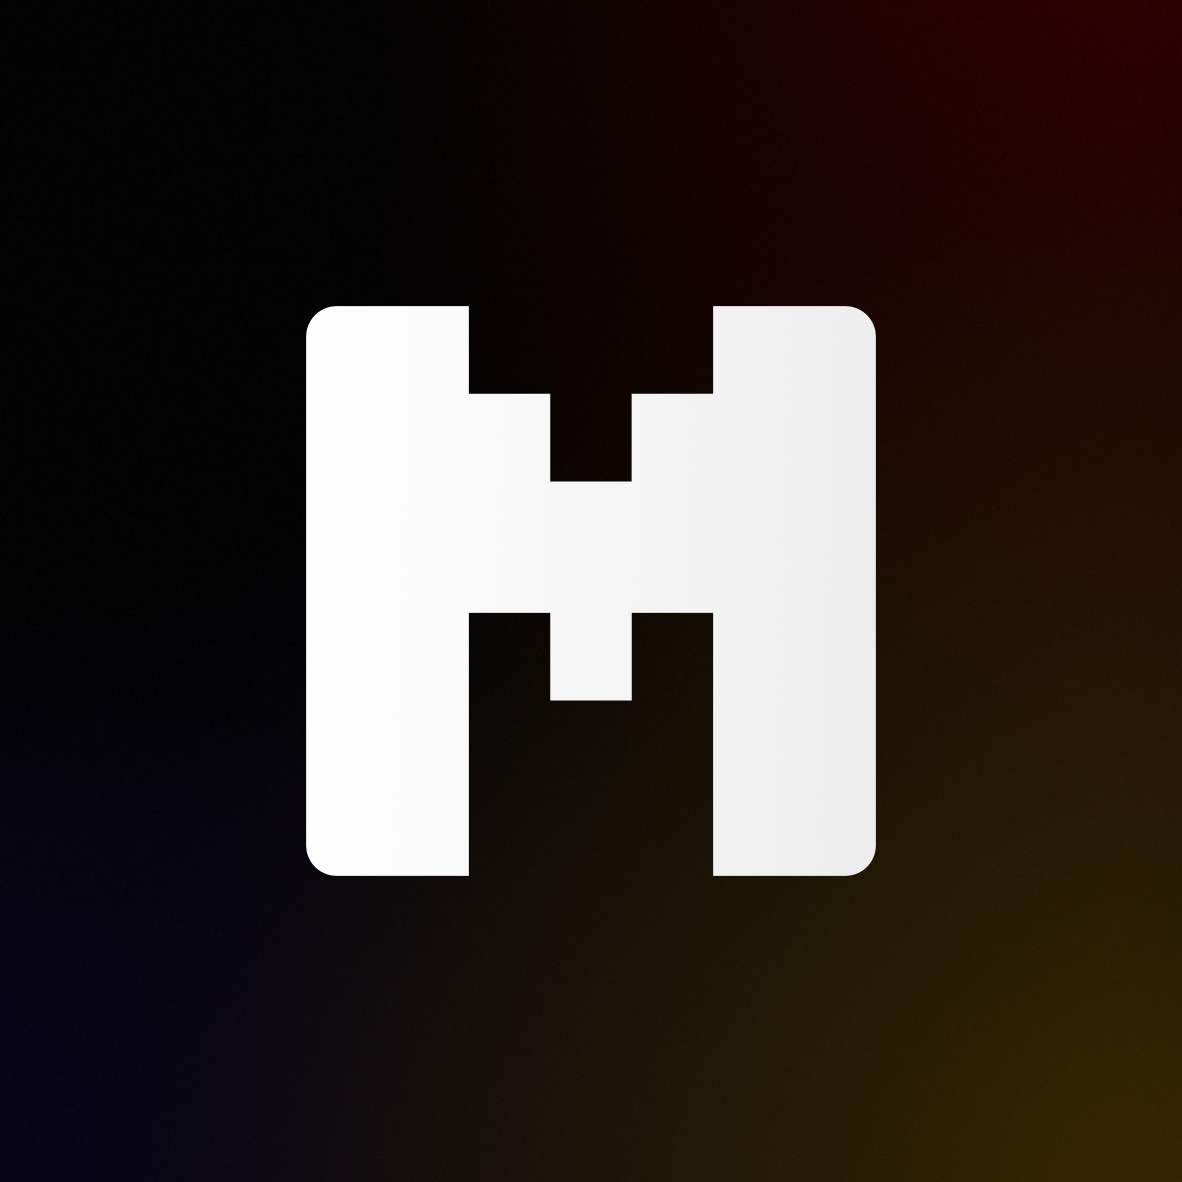
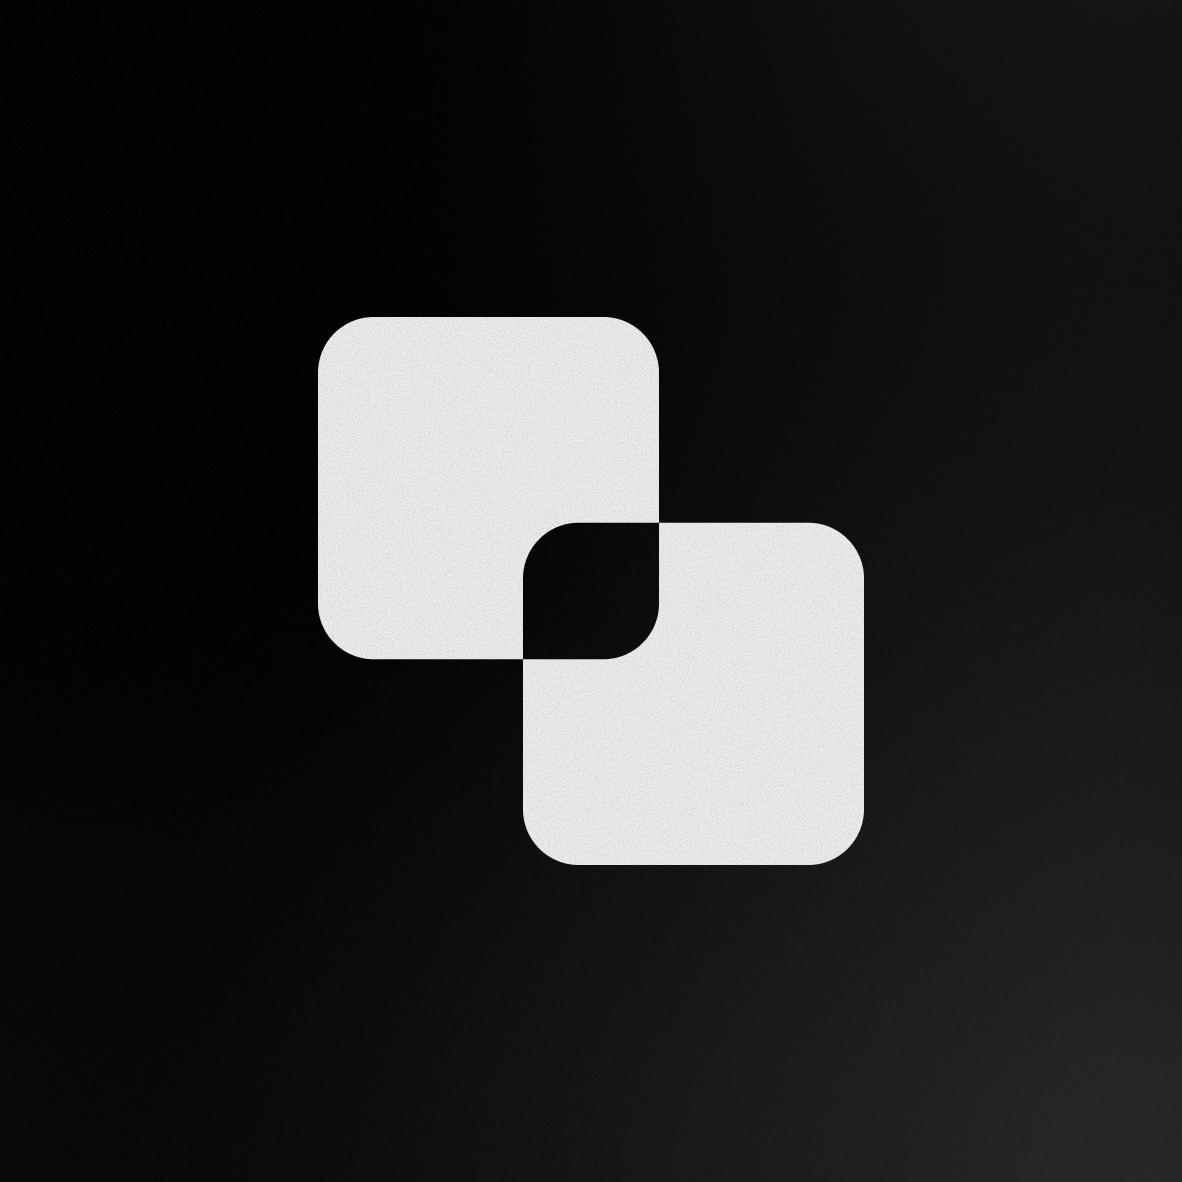
docs: refresh Modulora brand assets (#3)

Changed region(s): [[0.2437, 0.2437, 0.7614, 0.7614], [0.6701, 0.6091, 1.0, 1.0]]

diff --git a/PLAN.md b/PLAN.md
@@ -26,7 +26,7 @@ Every Modulora repository consumes these defaults. Security-sensitive repository
 ### Deliverables
 
 - Publish the organization profile with the Modulora social header.
-- Store canonical `social-header.png`, `profile-picture.png`, and `icon.svg` under `assets/brand/`.
+- Store canonical `social-header.png`, `profile-picture.png`, and `logo.svg` under `assets/brand/`.
 - Document dimensions, intended use, and all-rights-reserved mark policy.
 - Link public core, spec, and CLI repositories.
 - Add website/docs links when domains are live.

diff --git a/assets/brand/README.md b/assets/brand/README.md
@@ -6,6 +6,6 @@ Canonical brand assets used by Modulora organization profiles and social account
 |---|---|
 | `social-header.png` | 1500×500 social/header artwork |
 | `profile-picture.png` | Square profile/avatar artwork |
-| `icon.svg` | Scalable Modulora mark |
+| `logo.svg` | Scalable Modulora mark |
 
 These assets are not covered by the Apache-2.0 or AGPL code licenses used by other Modulora repositories. Unless otherwise stated, Modulora brand names, marks, and artwork are all rights reserved. Do not imply endorsement or official affiliation.